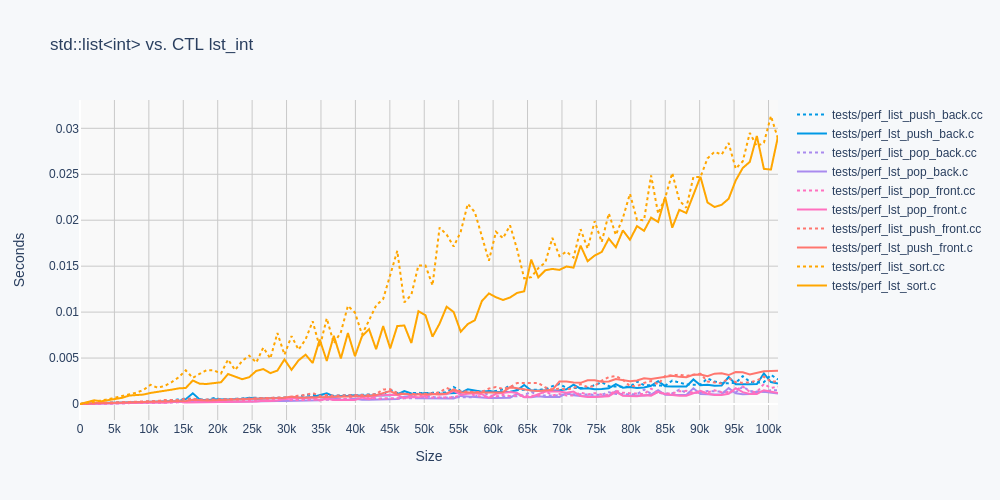
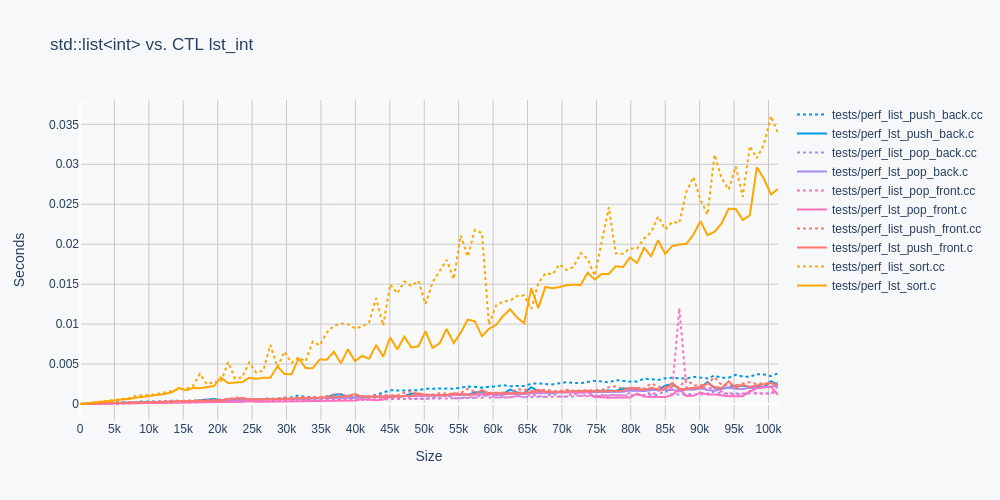
fix pef test typos

diff --git a/tests/perf_lst_pop_front.c b/tests/perf_lst_pop_front.c
@@ -12,10 +12,10 @@ int main(void)
         lst_int c = lst_int_init();
         int elems = TEST_PERF_CHUNKS * run;
         for(int elem = 0; elem < elems; elem++)
-            lst_int_push_back(&c, rand());
+            lst_int_push_front(&c, rand());
         int t0 = TEST_TIME();
         for(int elem = 0; elem < elems; elem++)
-            lst_int_pop_back(&c);
+            lst_int_pop_front(&c);
         int t1 = TEST_TIME();
         printf("%10d %10d\n", elems, t1 - t0);
         lst_int_free(&c);

diff --git a/tests/perf_list_pop_front.cc b/tests/perf_list_pop_front.cc
@@ -10,10 +10,10 @@ int main()
         std::list<int> c;
         int elems = TEST_PERF_CHUNKS * run;
         for(int elem = 0; elem < elems; elem++)
-            c.push_back(rand());
+            c.push_front(rand());
         int t0 = TEST_TIME();
         for(int elem = 0; elem < elems; elem++)
-            c.pop_back();
+            c.pop_front();
         int t1 = TEST_TIME();
         printf("%10d %10d\n", elems, t1 - t0);
     }

diff --git a/tests/perf_lst_push_front.c b/tests/perf_lst_push_front.c
@@ -13,7 +13,7 @@ int main(void)
         int elems = TEST_PERF_CHUNKS * run;
         int t0 = TEST_TIME();
         for(int elem = 0; elem < elems; elem++)
-            lst_int_push_back(&c, rand());
+            lst_int_push_front(&c, rand());
         int t1 = TEST_TIME();
         printf("%10d %10d\n", elems, t1 - t0);
         lst_int_free(&c);

diff --git a/tests/perf_list_push_front.cc b/tests/perf_list_push_front.cc
@@ -11,7 +11,7 @@ int main()
         int elems = TEST_PERF_CHUNKS * run;
         int t0 = TEST_TIME();
         for(int elem = 0; elem < elems; elem++)
-            c.push_back(rand());
+            c.push_front(rand());
         int t1 = TEST_TIME();
         printf("%10d %10d\n", elems, t1 - t0);
     }
